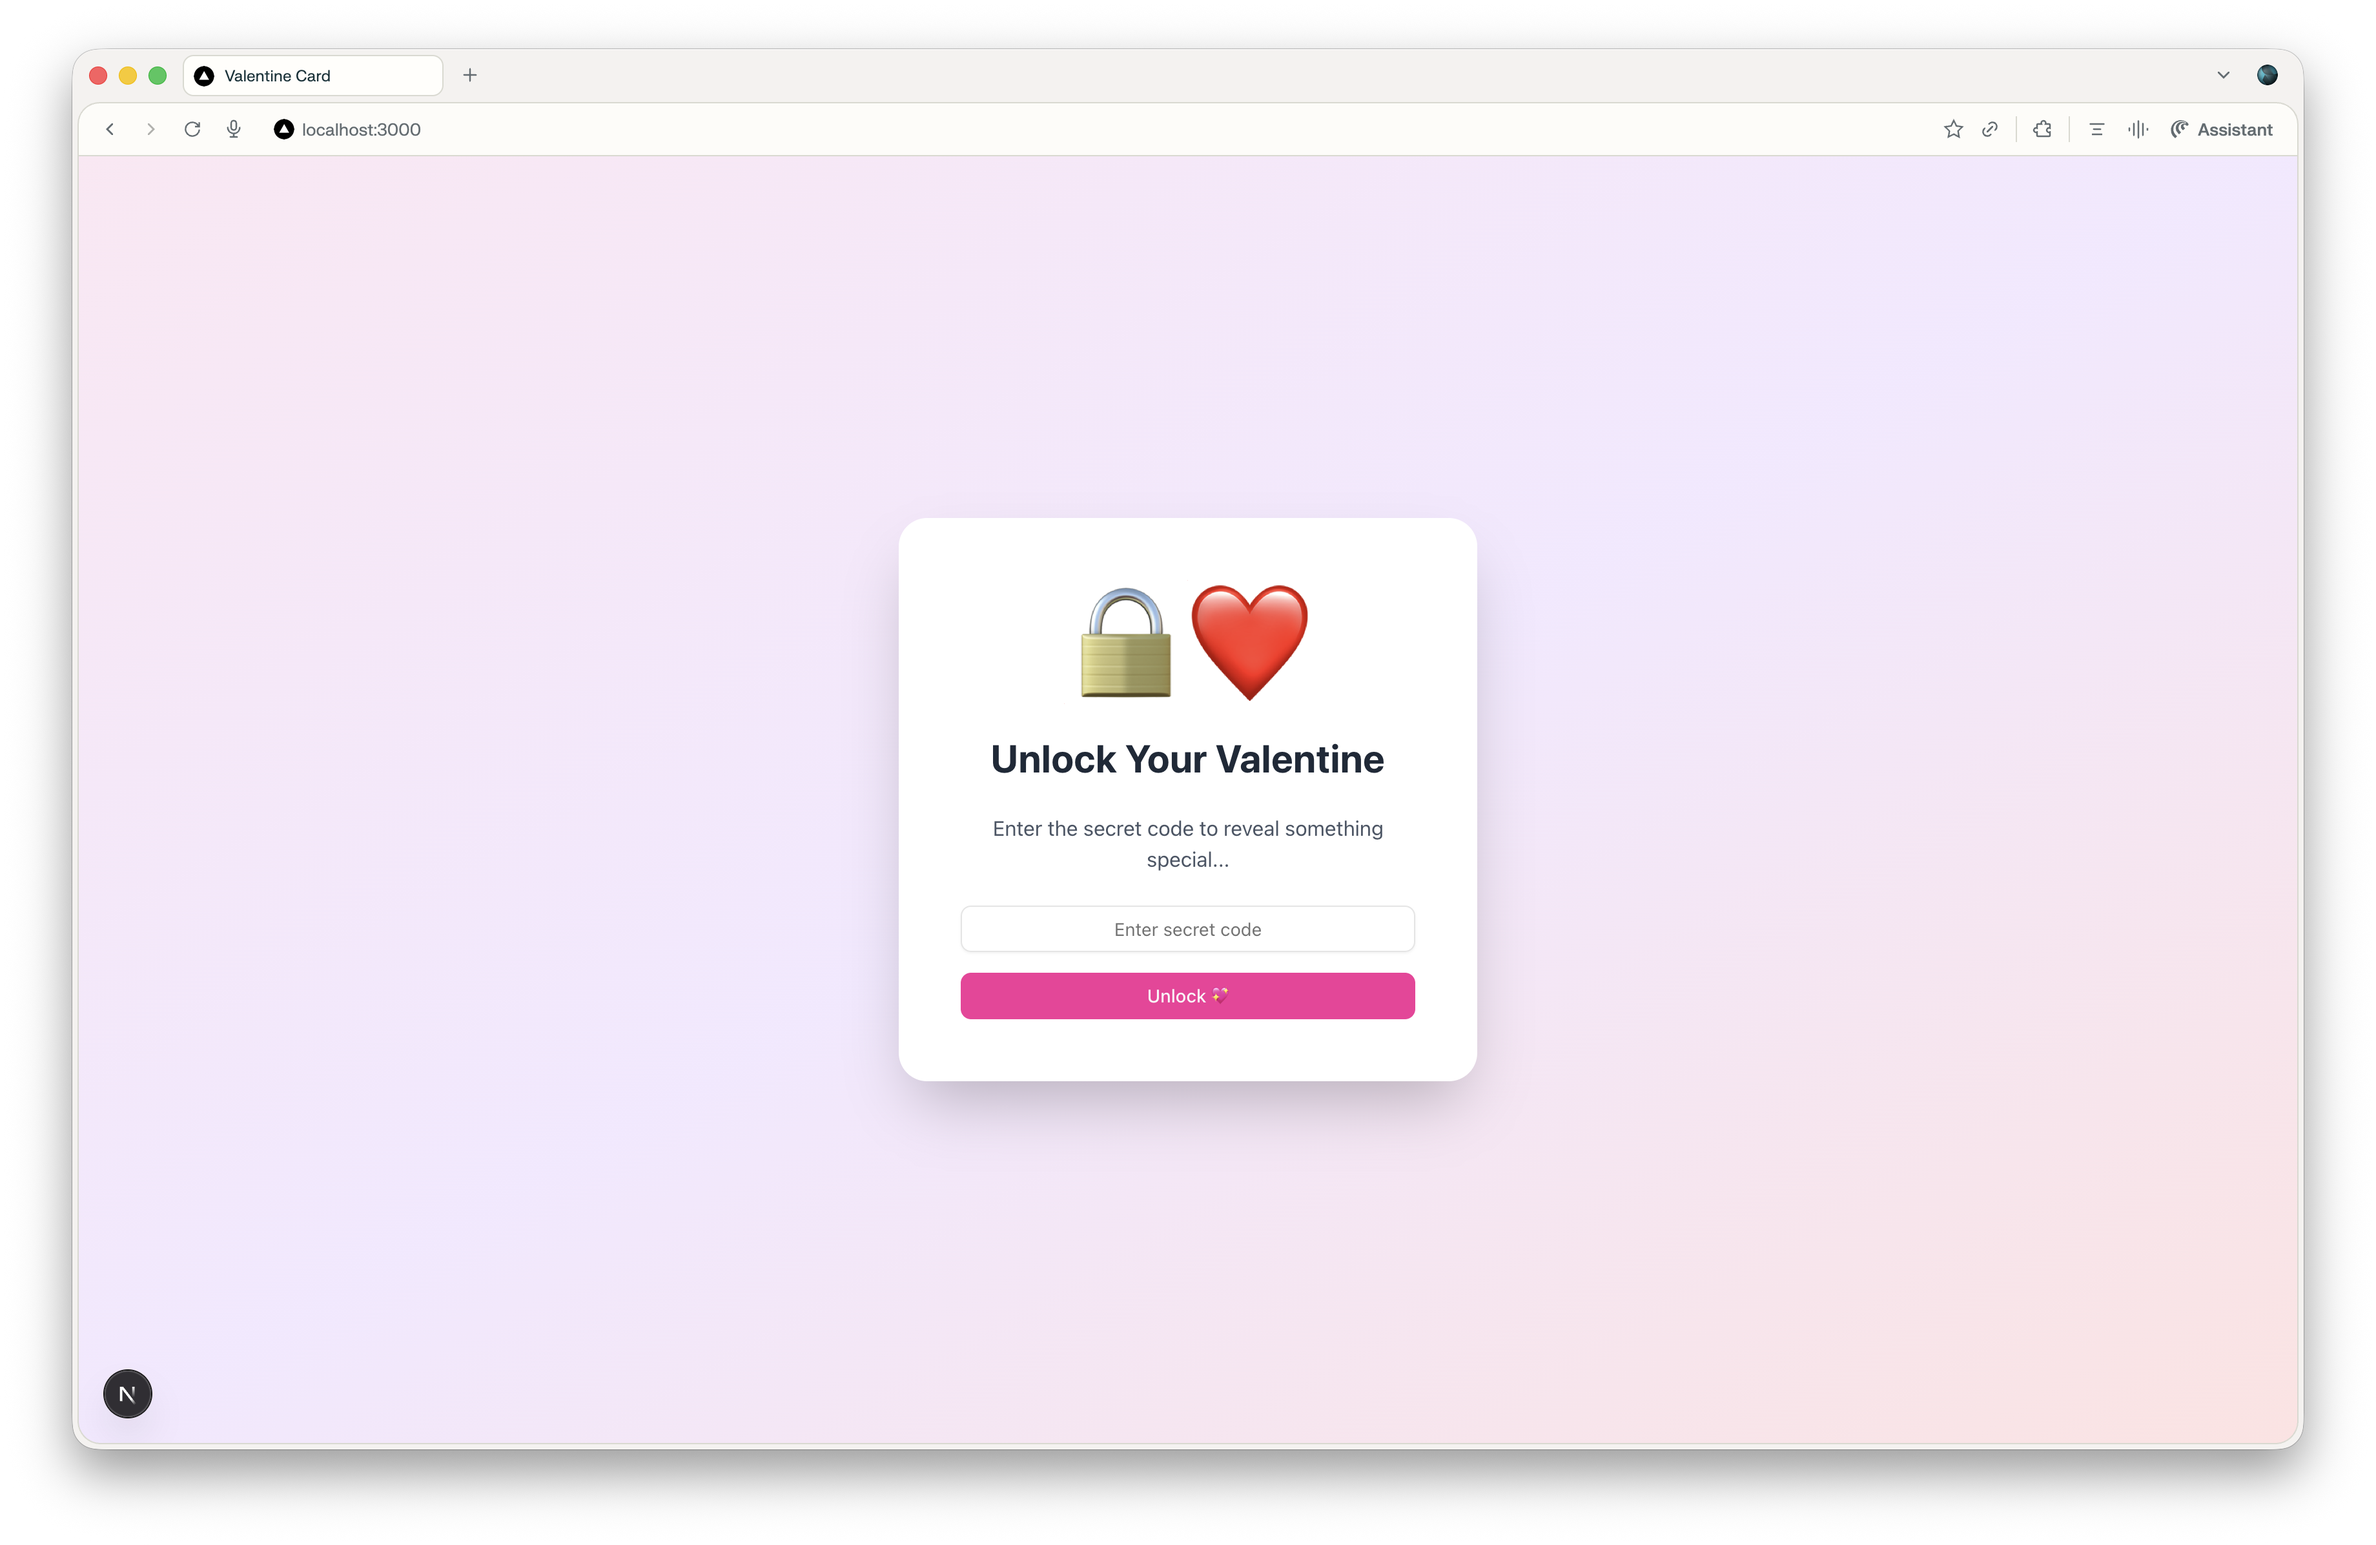
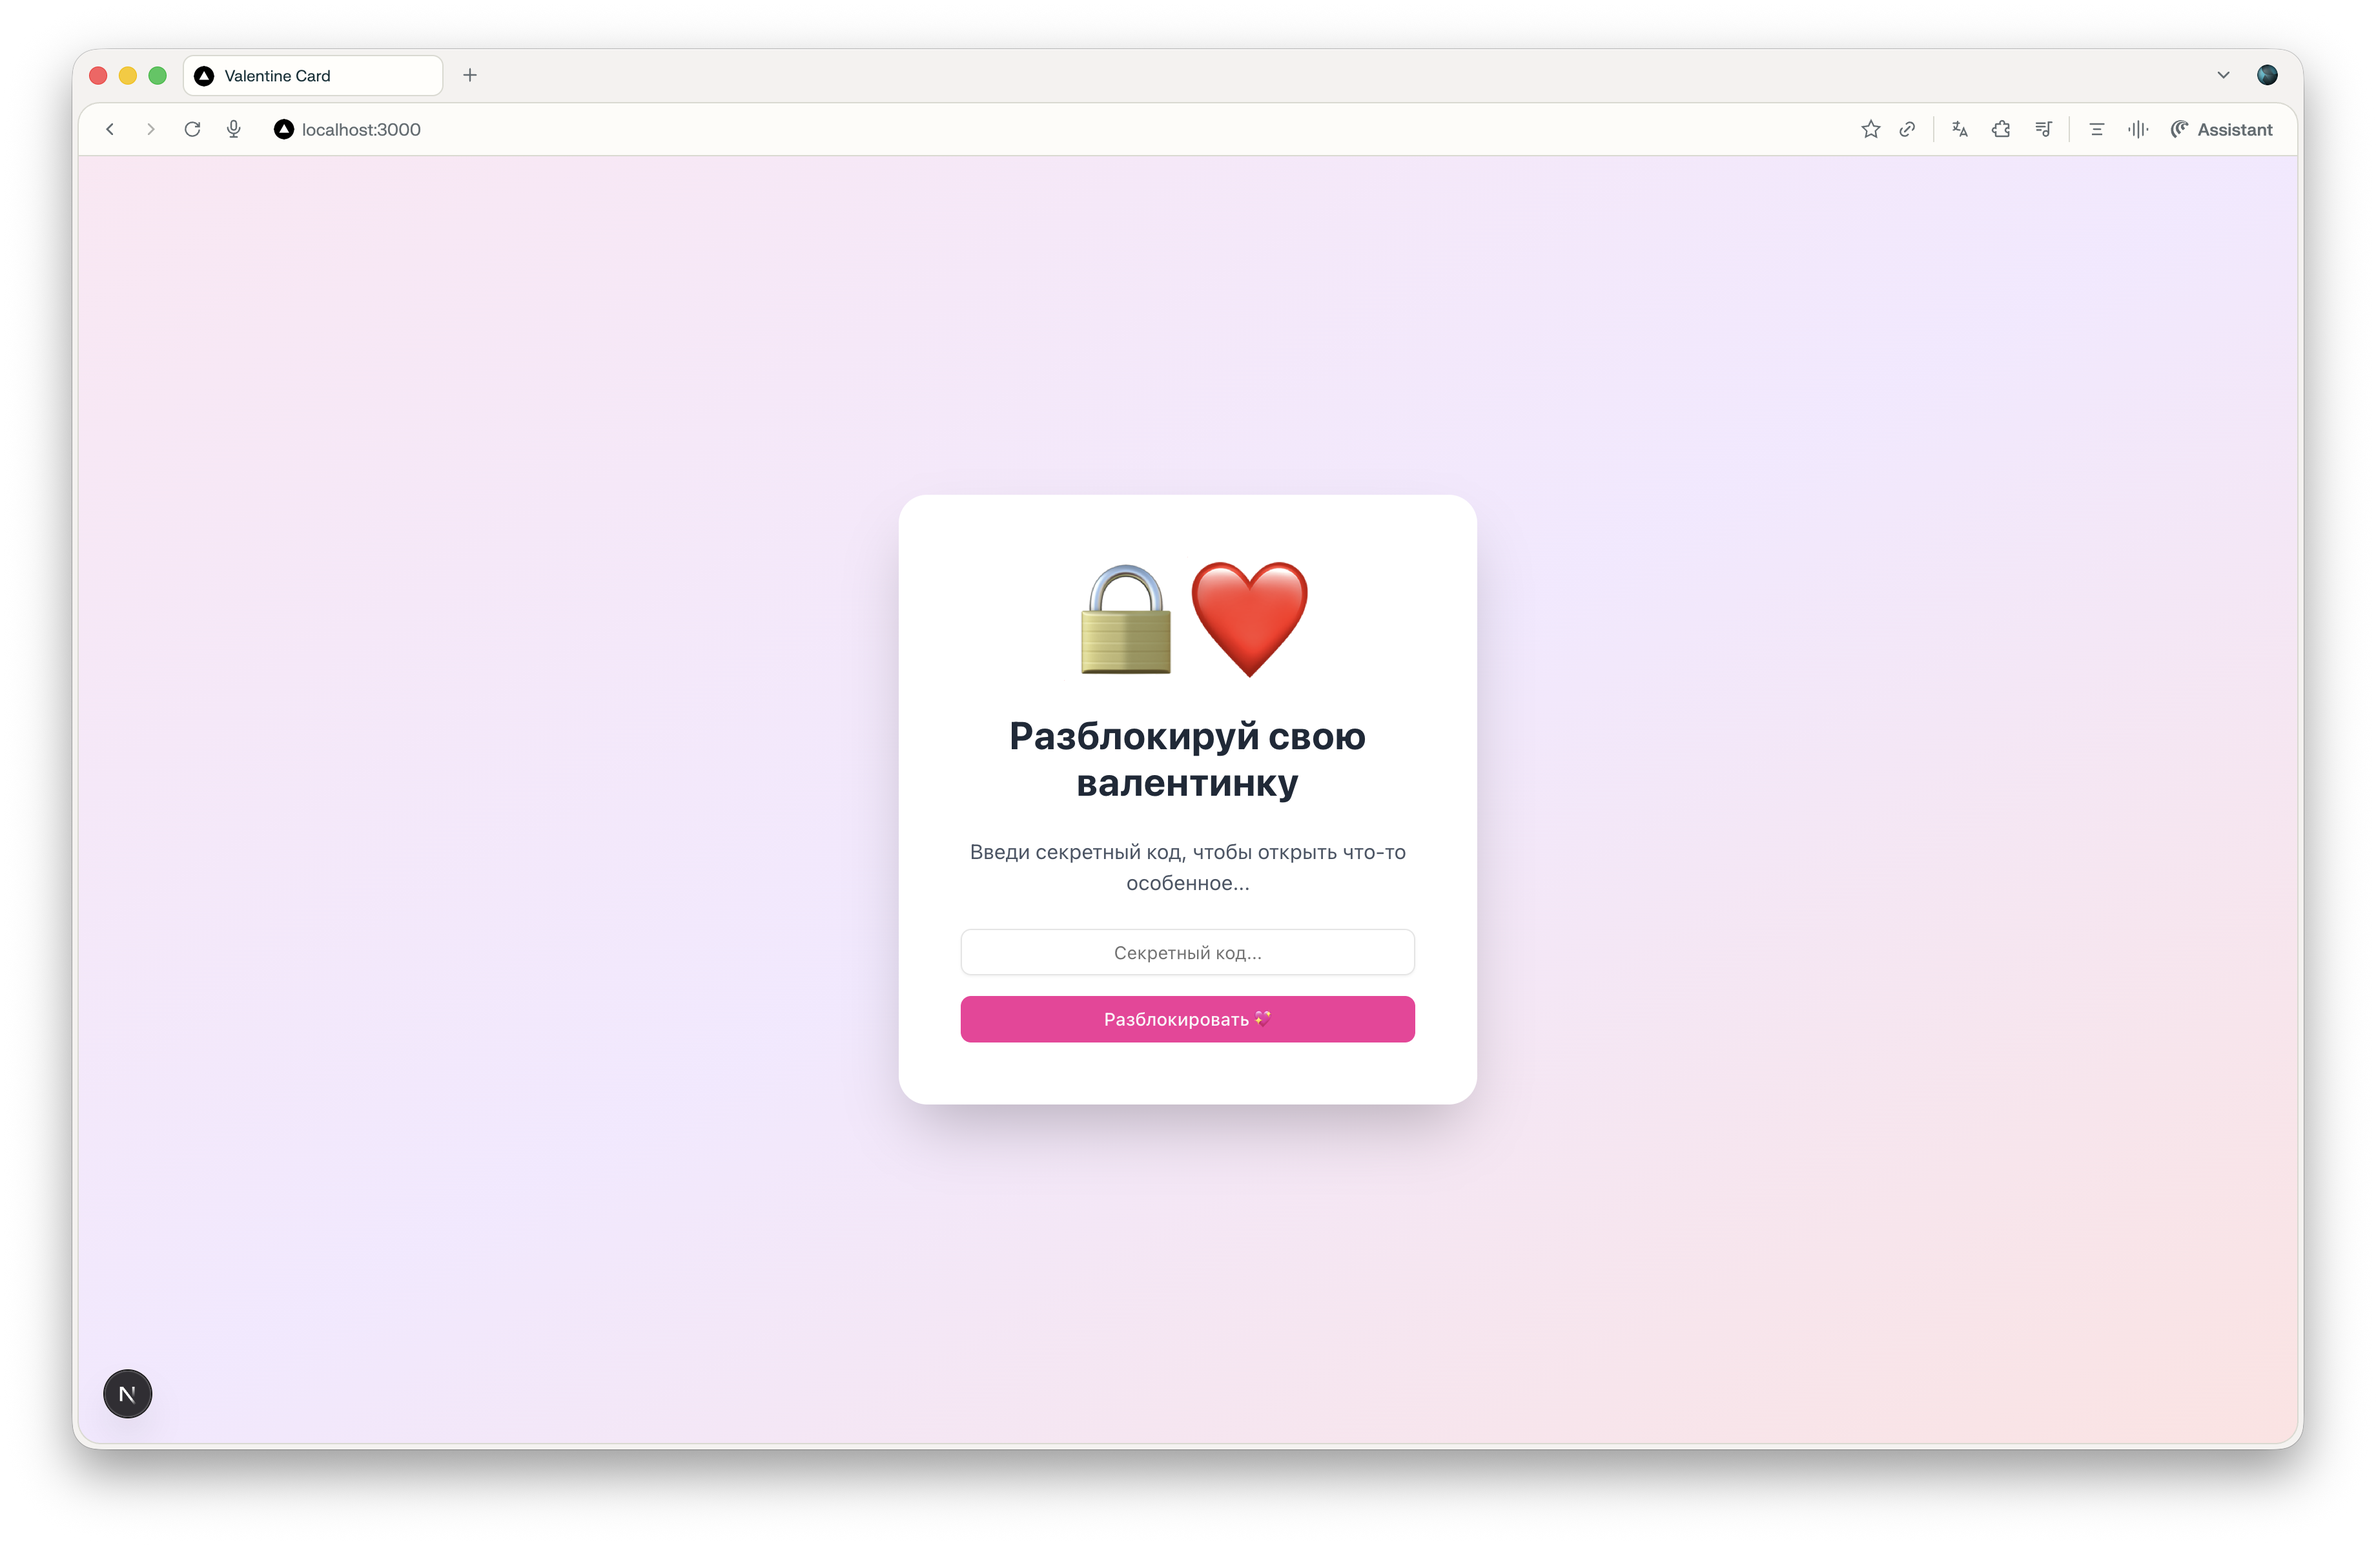
Update Russian translations in ValentineCard component and README

Changed region(s): [[0.375, 0.3712, 0.625, 0.7425], [0.375, 0.3094, 0.625, 0.3403], [0.8125, 0.0619, 0.8438, 0.0928]]

diff --git a/src/components/ValentineCard.jsx b/src/components/ValentineCard.jsx
@@ -58,15 +58,15 @@ export default function ValentineCard({ secretCode, personName }) {
               <div className="text-8xl">🔒❤</div>
             </div>
             <h1 className="text-3xl font-bold text-gray-800">
-              Разблокируйте вашу валентинку
+              Разблокируй свою валентинку
             </h1>
             <p className="text-gray-600">
-              Введите секретный код, чтобы открыть что-то особенное...
+              Введи секретный код, чтобы открыть что-то особенное...
             </p>
             <form onSubmit={handleCodeSubmit} className="space-y-4">
               <Input
                 type="text"
-                placeholder="Введите секретный код"
+                placeholder="Секретный код..."
                 value={codeInput}
                 onChange={(e) => setCodeInput(e.target.value)}
                 className="text-center text-lg"
@@ -95,7 +95,6 @@ export default function ValentineCard({ secretCode, personName }) {
                 &ldquo;Во всём мире нет для меня сердца, подобного твоему. 
                 Во всём мире нет для тебя любви, подобной моей.&rdquo;
               </p>
-              <p className="text-sm text-gray-500 mt-2">- Майя Энджелоу</p>
             </div>
             <h2 className="text-2xl font-semibold text-gray-800 pt-4">
               Будешь моей валентинкой? 💖
@@ -129,7 +128,7 @@ export default function ValentineCard({ secretCode, personName }) {
               <div className="text-8xl">🌹✨</div>
             </div>
             <h1 className="text-3xl font-bold text-gray-800">
-              Ура! Я так рад(а)! 🎉
+              Ура!! 🎉
             </h1>
             <p className="text-gray-600">
               Скажи мне, когда и где тебя забрать...
@@ -187,7 +186,7 @@ export default function ValentineCard({ secretCode, personName }) {
               <p className="text-sm text-gray-500 mt-2">- Одри Хепбёрн</p>
             </div>
             <p className="text-gray-700 text-lg">
-              Я считаю моменты до нашего свидания! 
+              Я считаю минуты до нашего свидания! 
               Это будет потрясающе! 💕✨
             </p>
             <div className="pt-4 text-6xl">
